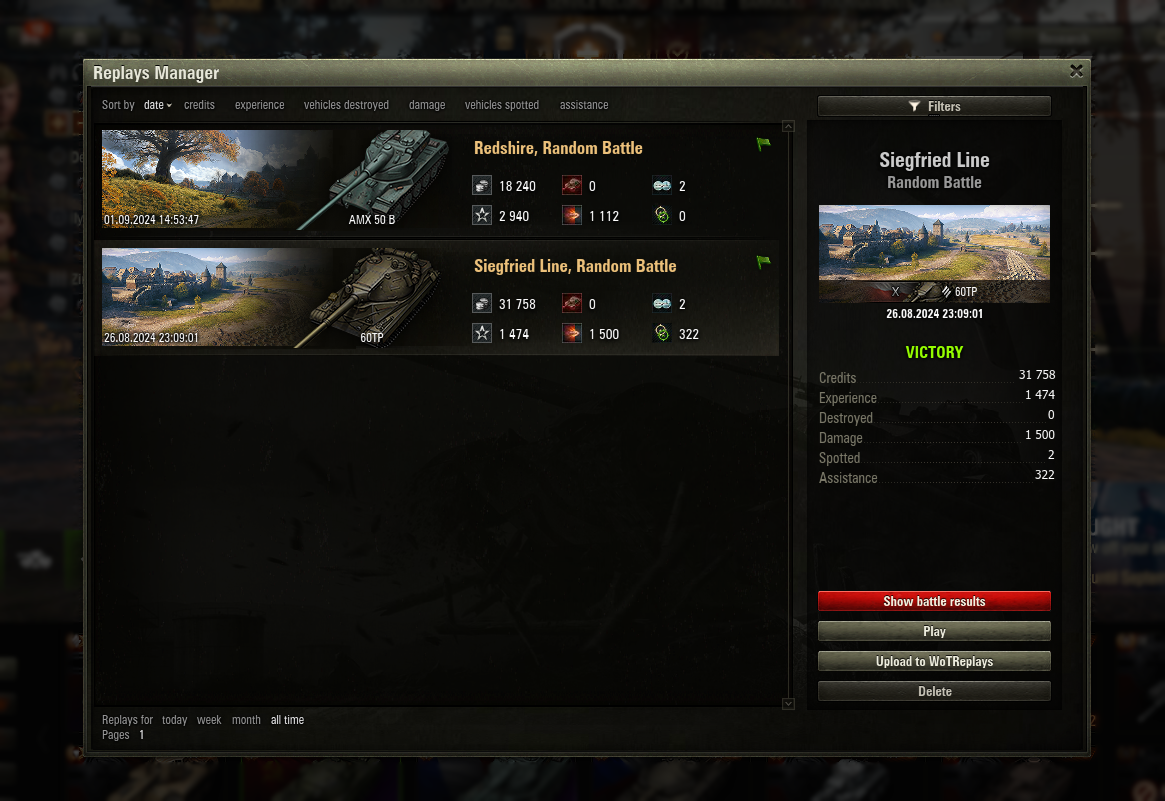
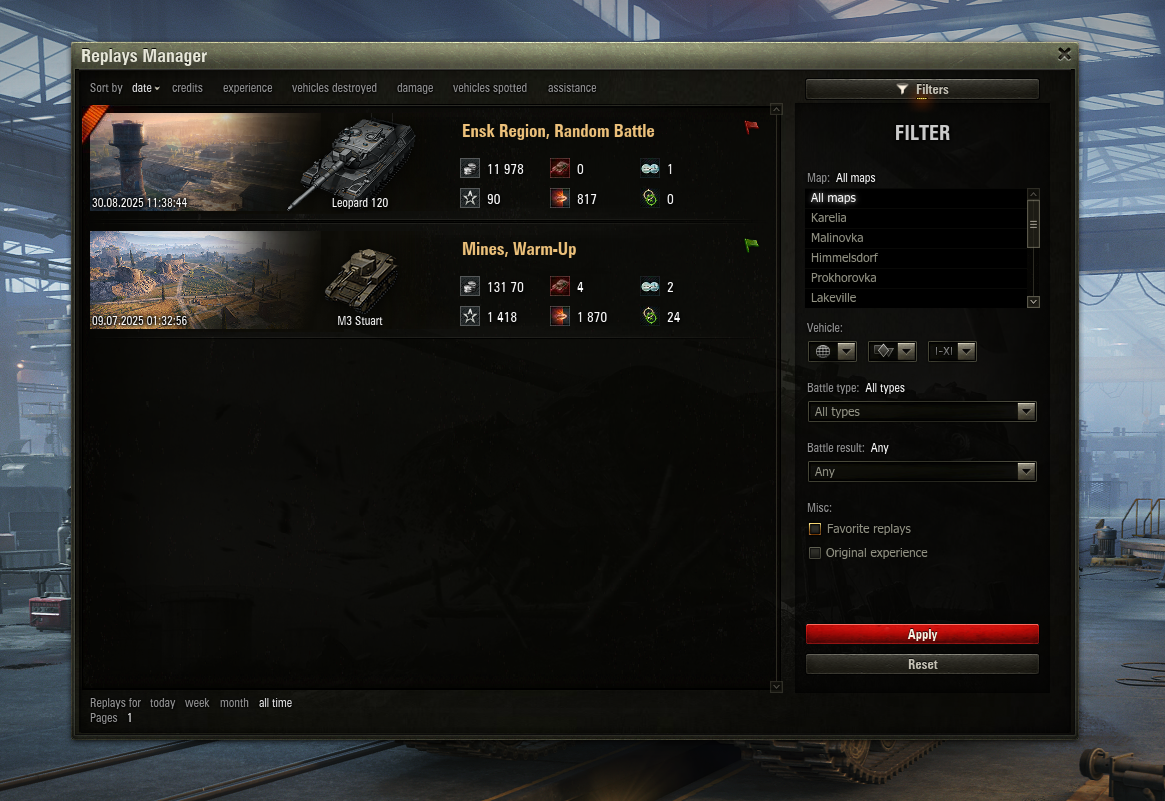
feat: Improve window behavior and add support for older replay versions (1.29.1).
- Changes the Replays Manager window to be non-modal and draggable for better usability.
- Adds a backward compatibility fix to the replay parser for the 'outfit' key from older replay versions (1.29.1).

diff --git a/python/gui/rmanager/views/__init__.py b/python/gui/rmanager/views/__init__.py
@@ -11,7 +11,7 @@ from .uploaderWindow import ReplaysManagerUploader
 def getViewSettings():
 	viewSettings = []
 	viewSettings.append(ViewSettings(REPLAYS_MANAGER_WINDOW_ALIAS, ReplaysManagerWindow, 'ReplaysManagerWindow.swf',
-						WindowLayer.WINDOW, None, ScopeTemplates.GLOBAL_SCOPE, isModal=True, canClose=True, canDrag=False))
+						WindowLayer.WINDOW, None, ScopeTemplates.GLOBAL_SCOPE, isModal=False, canClose=True, canDrag=True))
 	viewSettings.append(ViewSettings(REPLAYS_MANAGER_UPLOADER_ALIAS, ReplaysManagerUploader, 'ReplaysManagerUpload.swf',
 						WindowLayer.WINDOW, None, ScopeTemplates.GLOBAL_SCOPE, isModal=True, canClose=True, canDrag=True))
 	return viewSettings

diff --git a/python/gui/rmanager/_constants.py b/python/gui/rmanager/_constants.py
@@ -17,7 +17,7 @@ REPLAYS_MANAGER_UPLOADER_ALIAS = 'ReplaysManagerUploadWindow'
 
 REPLAY_CM_HANDLER_TYPE = 'replayCMHandler'
 REPLAY_FLAG_FILE = 'replay_need_to_play.killme'
-DB_VERSION = 16
+DB_VERSION = 17
 
 CLIENT_ROOT = '.'
 REPLAYS_PATH = CLIENT_ROOT + '/replays/'
@@ -52,9 +52,9 @@ class DATABASE_STATES:
 	PARSING = 'parsing'
 	ERROR = 'error'
 
-PROCESS_SUPPORTED_VERSION = (2, 0, 0, 0)
-REPLAY_SUPPORTED_VERSION = (2, 0, 0, 0)
-RESULTS_SUPPORTED_VERSION = (2, 0, 0, 0)
+PROCESS_SUPPORTED_VERSION = (1, 29, 1, 0)
+REPLAY_SUPPORTED_VERSION = (1, 29, 1, 0)
+RESULTS_SUPPORTED_VERSION = (1, 29, 1, 0)
 
 # number of bytes to pack data in replay file
 DEFAULT_PACK_SIZE = 4

diff --git a/python/gui/rmanager/controllers/parser.py b/python/gui/rmanager/controllers/parser.py
@@ -138,6 +138,9 @@ class ParserController(object):
 					pVehicle['originalCreditsContributionInSquad'] = pVehicle.get('originalCreditsContributionInSquad', 0)
 					pVehicle['originalCreditsToDrawSquad'] = pVehicle.get('originalCreditsToDrawSquad', 0)
 
+					# 2.0.0 fixes
+					pVehicle['outfit'] = None
+
 			# 1.5 fixes
 			if 'vehicles' in result_blocks['data']['result_data']:
 				for _, vehicleData in result_blocks['data']['result_data']['vehicles'].iteritems():

diff --git a/python/gui/mods/mod_rmanager.py b/python/gui/mods/mod_rmanager.py
@@ -1,6 +1,6 @@
 # SPDX-License-Identifier: MIT
 # Copyright (c) 2015-2025 Andrii Andrushchyshyn
 
-__version__ = "3.8.2"
+__version__ = "3.8.3"
 
 from gui.rmanager import *

diff --git a/CHANGELOG.md b/CHANGELOG.md
@@ -1,5 +1,10 @@
 # Changelog
 
+## v3.8.3
+
+* Changes the Replays Manager window to be non-modal and draggable for better usability.
+* Adds a backward compatibility fix to the replay parser for the 'outfit' key from older replay versions (1.29.1).
+
 ## v3.8.2
 
 * feat: Update mod for WoT 2.0
